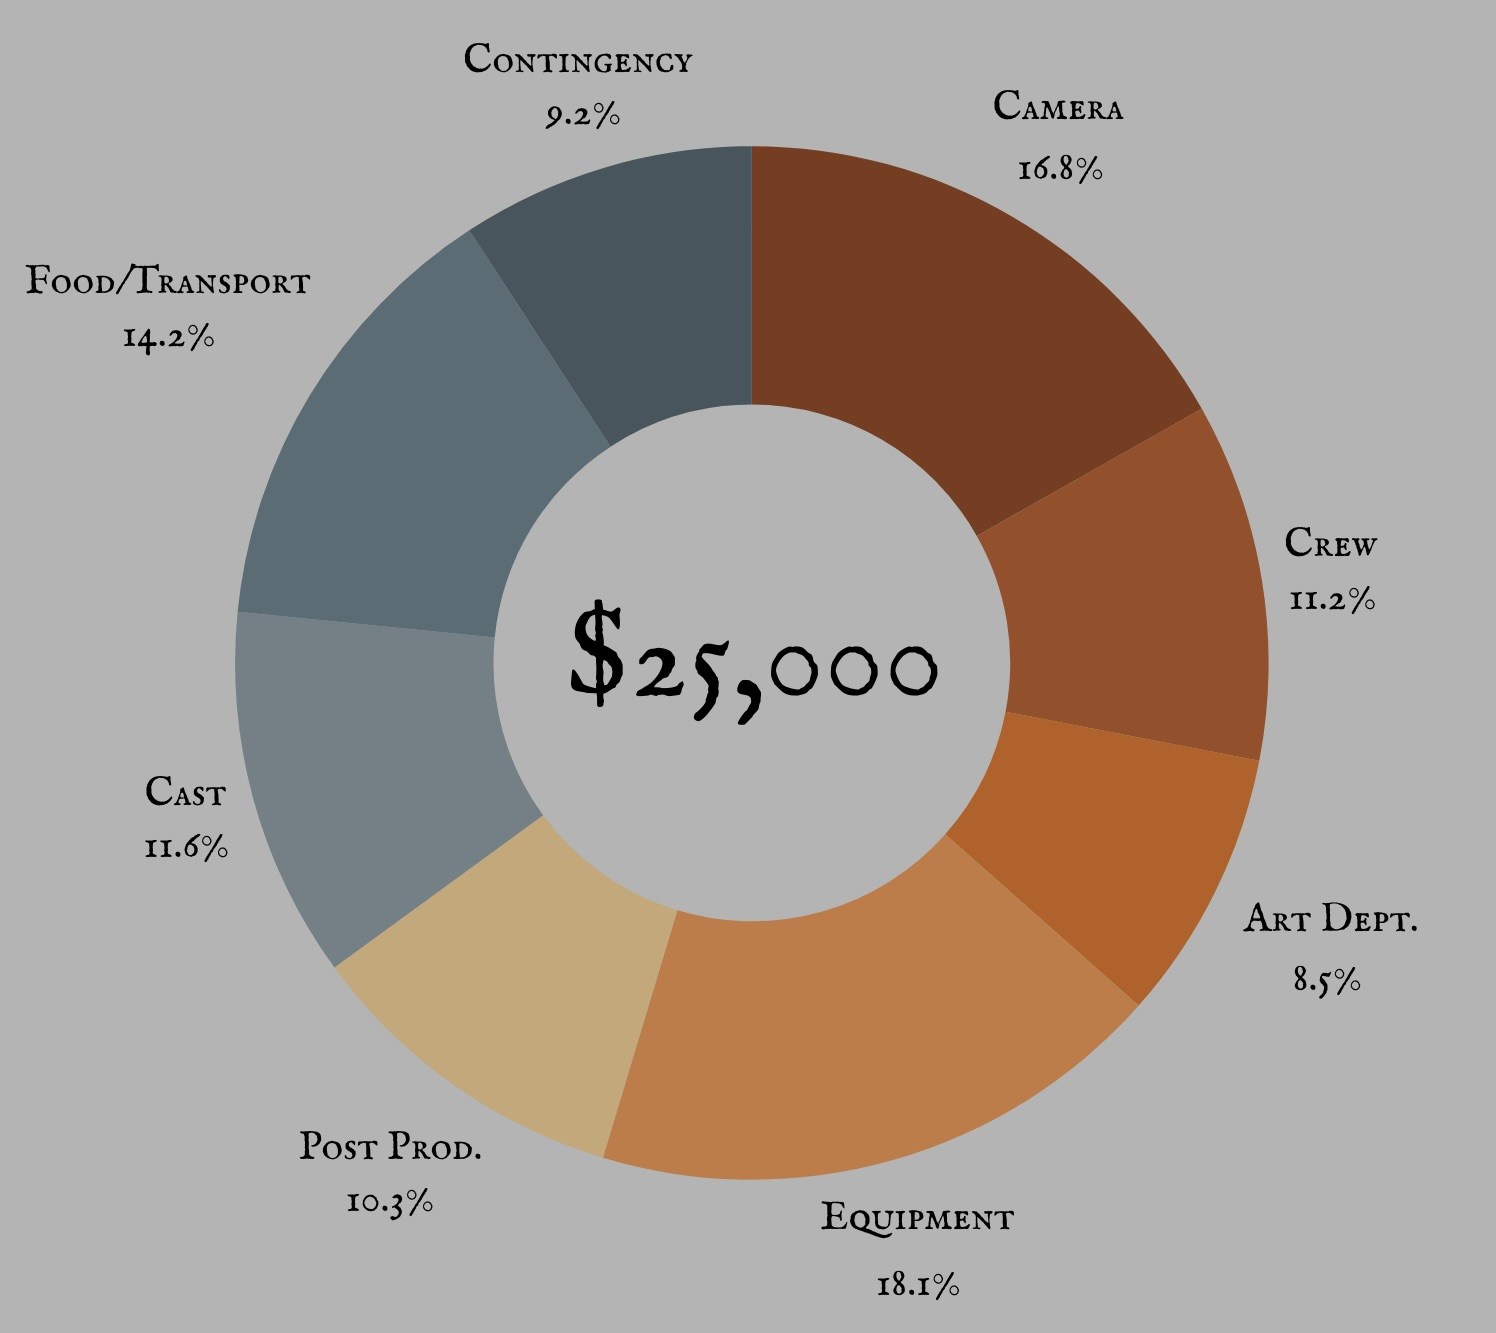
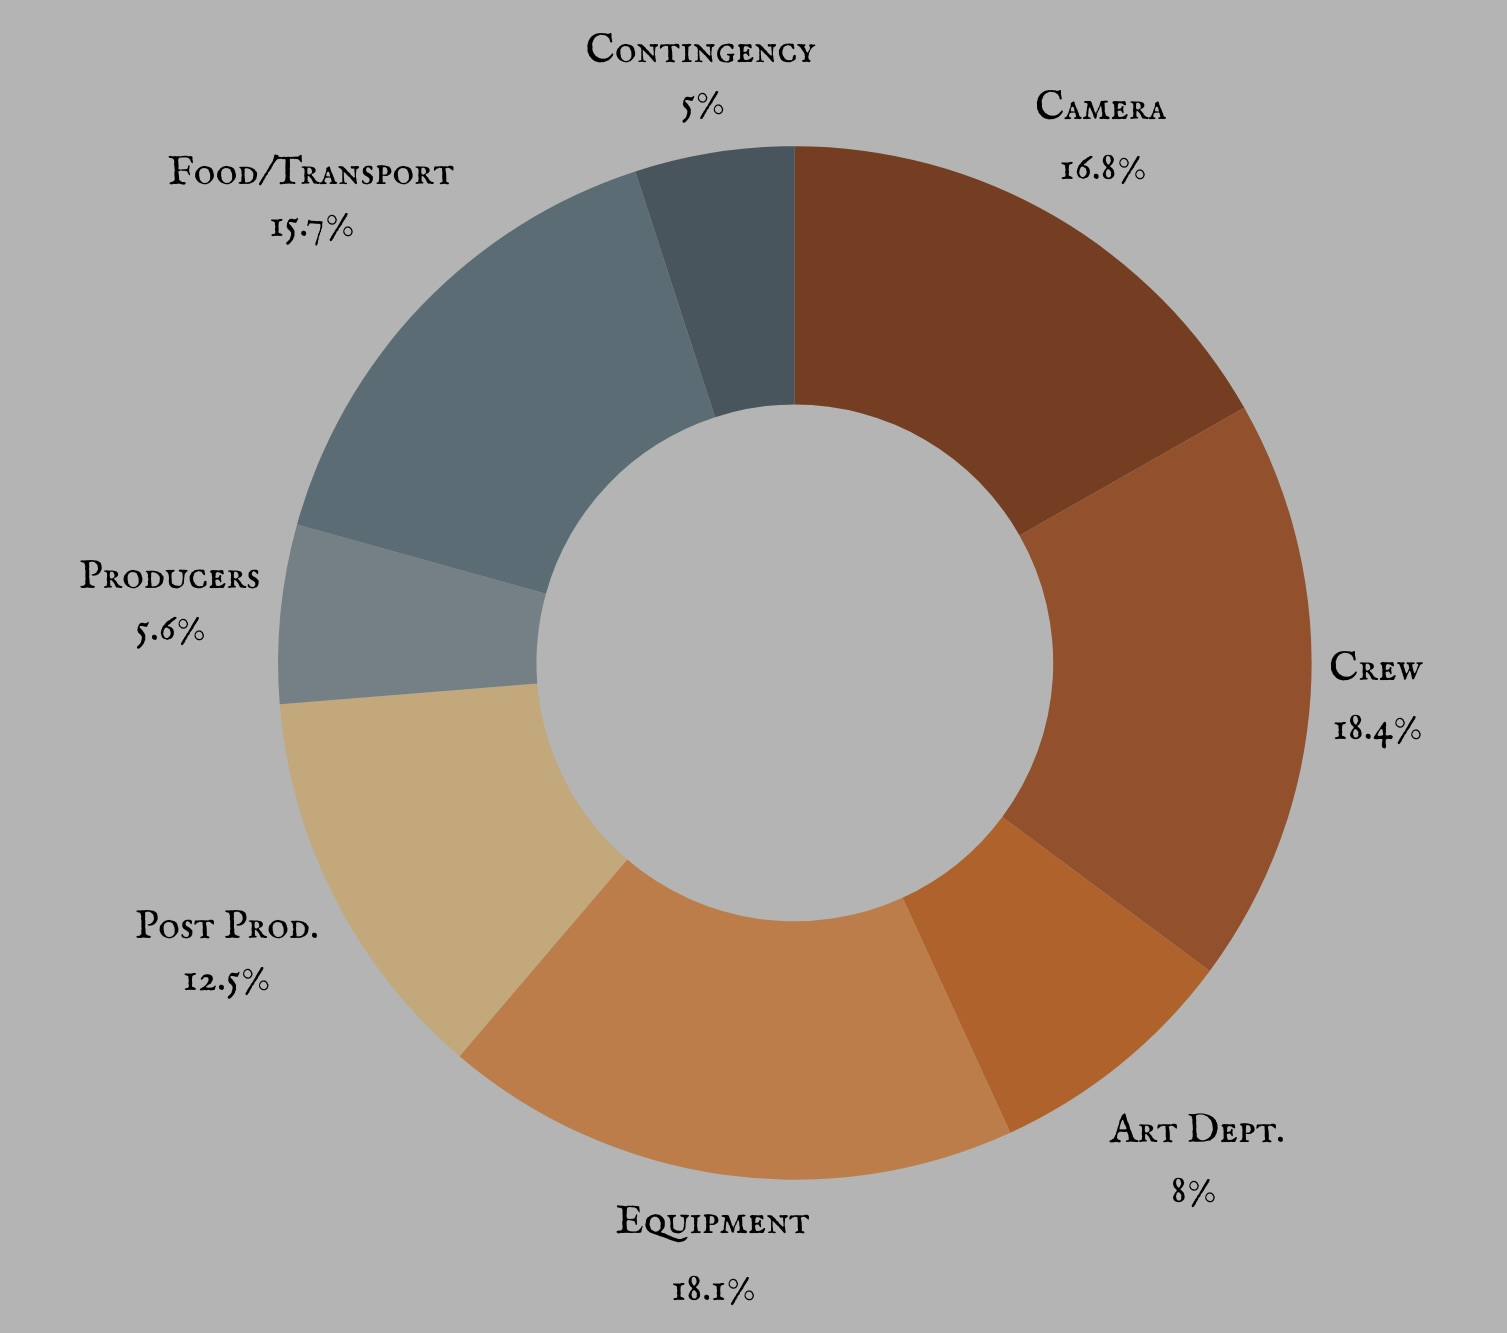
incentive edits

diff --git a/funding.html b/funding.html
@@ -747,12 +747,15 @@
     <section>
         <h2>Fundraising</h2>
         <div class="content-box">
-            <p style=" text-align:center"><em>Fifty Hounds</em> is an independent short film lead by a predominantly female team. Every
+            <p style=" text-align:center"><em>Fifty Hounds</em> is an independent short film lead by a predominantly
+                female team. Every
                 contribution—whether through funding, sharing, or simply following our progress—helps us bring this
                 story to life.</p>
-            <p style=" text-align:center">We are raising funds to support production—helping us secure equipment, transportation, and crew costs.
+            <p style=" text-align:center">We are raising funds to support production—helping us secure equipment,
+                transportation, and crew costs.
             </p>
-            <p style=" text-align:center; padding-bottom: 0rem;"><strong>Our current goal is to raise our skeleton budget of $25,000.</strong> </p>
+            <p style=" text-align:center; padding-bottom: 0rem;"><strong>Our current goal is to raise our skeleton
+                    budget of $25,000.</strong> </p>
         </div>
 
         <div class="content-box" style=" padding-bottom: 1rem; margin-top:4rem;">
@@ -792,7 +795,8 @@
             <h2 style="font-size:2.2rem; color: var(--dark-yellow)">FROM THE HEART PRODUCTIONS </h2>
             <p style="text-align: center; font-size:1rem;">We are incredibly grateful to partner with From the Heart
                 Productions for fiscal sponsorship, meaning all donations are tax deductible.</p>
-            <p style="margin-bottom:0rem;"><em>FROM THE HEART PRODUCTIONS </em> is a non-profit dedicated to helping independent filmmakers with
+            <p style="margin-bottom:0rem;"><em>FROM THE HEART PRODUCTIONS </em> is a non-profit dedicated to helping
+                independent filmmakers with
                 unique films that make a contribution to society. Recognizing that it only takes a few minutes of screen
                 time to change hearts, spark movements, or shift perspectives, From the Heart Productions supports
                 filmmakers by offering fiscal sponsorship, grants, and intentional filmmaking classes. There is a great
@@ -830,10 +834,10 @@
             <p style="font-size:1.1rem;">Covers editing, sound design, color correction, and final mastering. This stage
                 shapes the raw footage
                 into a cohesive finished film and is critical to the project’s overall impact.</p>
-            <h3 style="font-size:1.6rem;">Cast</h3>
-            <p style="font-size:1.1rem;">Provides compensation for actors and performers. Funding cast ensures committed
-                performances and allows
-                the production to work with talent who can bring depth and credibility to the story.</p>
+            <h3 style="font-size:1.6rem;">Producers</h3>
+            <p style="font-size:1.1rem;">Provides compensation for the producers from our attched production companies
+                who oversee the project, managing logistics, budgeting, scheduling, and overall coordination to ensure
+                that the film stays on track creatively and financially. </p>
             <h3 style="font-size:1.6rem;">Food/Transport</h3>
             <p style="font-size:1.1rem;">Accounts for meals, craft services, and transportation for cast and crew during
                 production. These
@@ -918,16 +922,11 @@
                         <div class="amount">$500</div>
                         <div class="label">Signed Poster</div>
                     </div>
-                    <p>Receive a signed film poster from our cast and crew. Please include your email for contact
-                        purposes.</p>
-                    <div class="includes-title">This also includes:</div>
-                    <ul>
-                        <li>Early access to behind the scenes photos and videos</li>
-                        <li>A thank you video from one of our cast members from set</li>
-                        <li>Access to vote between the three final film posters</li>
-                        <li>Your name listed on the fundraising page of our film’s website to acknowledge you as a
-                            special supporter</li>
-                    </ul>
+                    <p>Receive a digital book detailing our process of creating <em>Fifty Hounds</em>, including a PDF
+                        of the script, side-by-side examples of our storyboards and shots, and other insights into our
+                        process. Please
+                        include your email for contact purposes.</p>
+
                 </div>
 
                 <div class="incentive-card">
